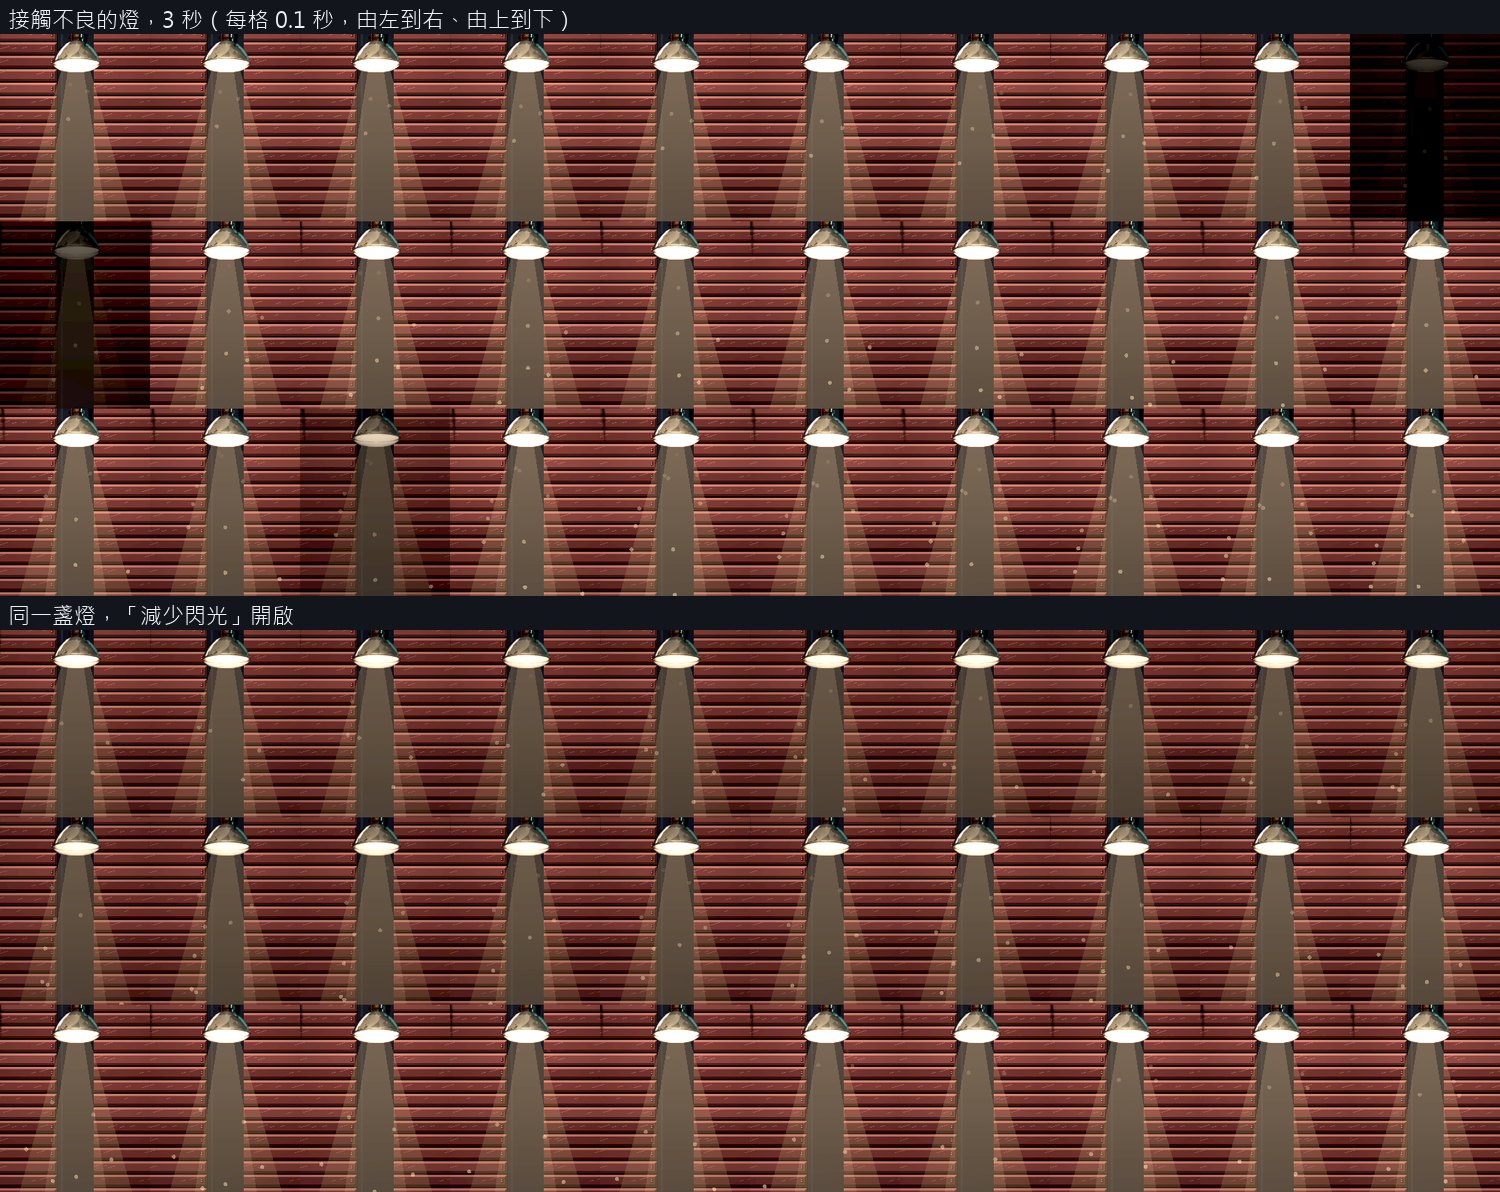
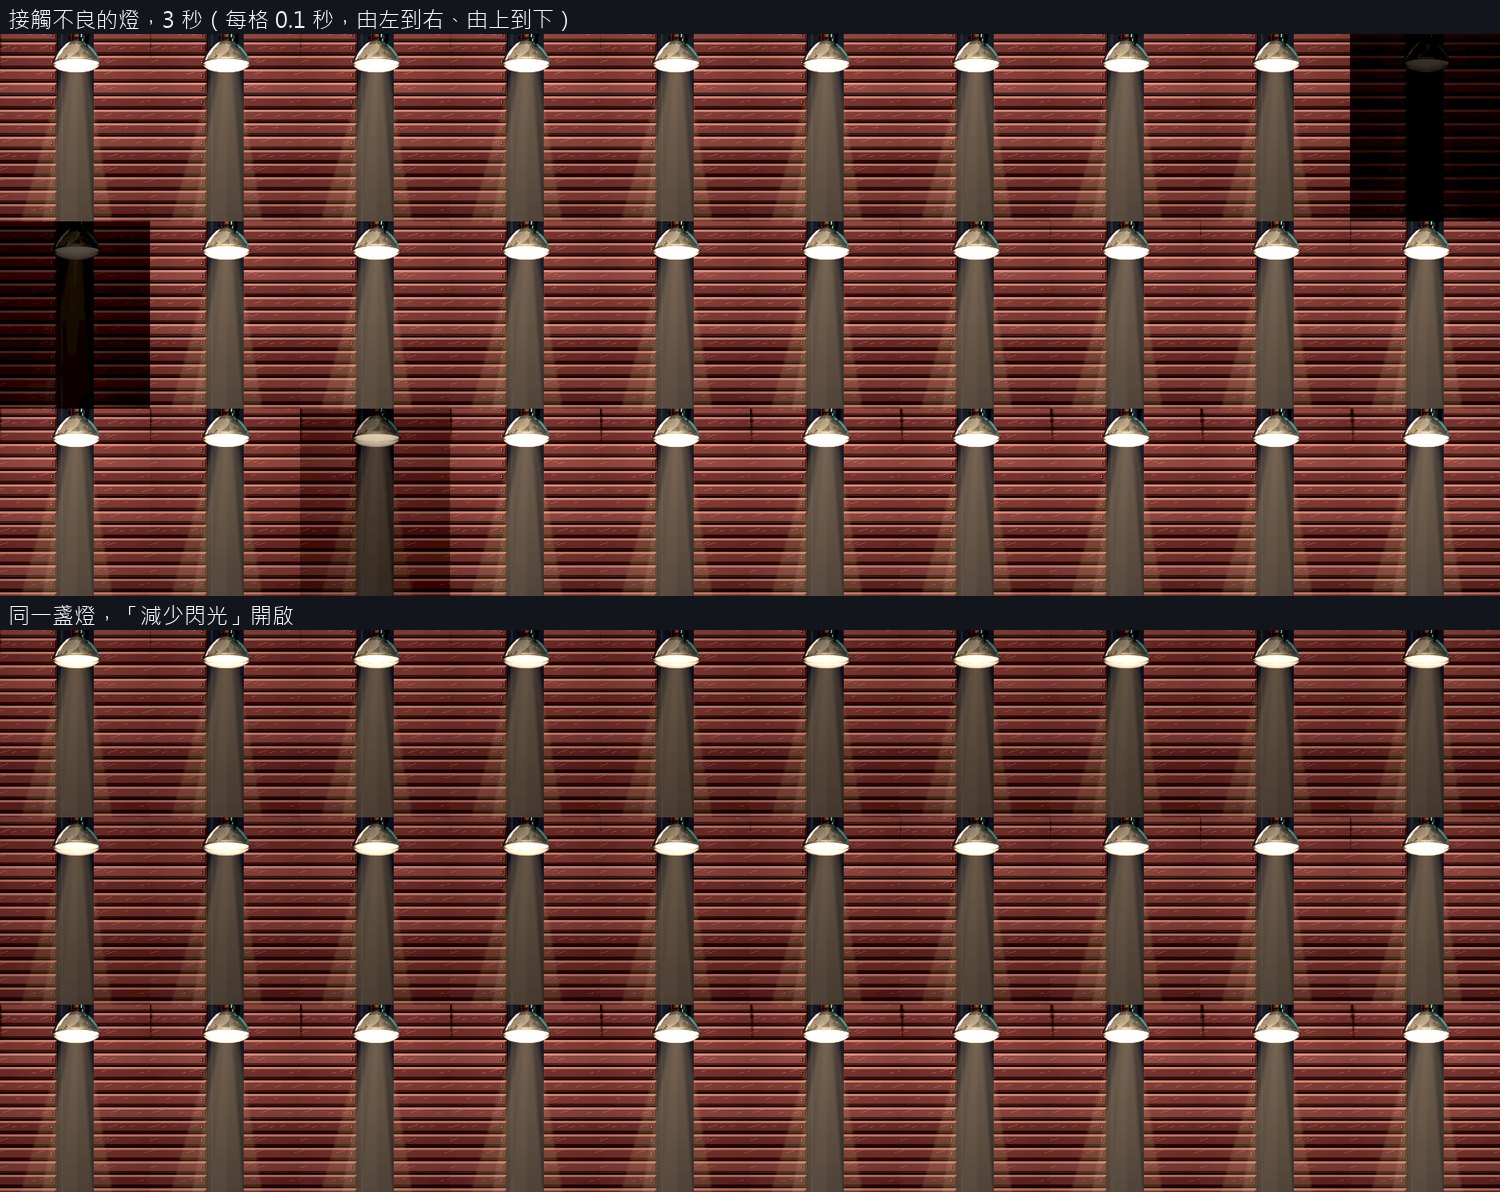
BG-36：街燈降到約四公尺，光錐改成柔邊、拿掉假粒子，快壞的燈打火時掉火花
依使用者看過新燈具後的回饋：戶外的燈桿從主角的三倍多降到兩倍左右；光錐從中心往兩側與末端淡到看不見，沒有邊線；光錐裡的塵粒與雨絲拿掉，只有快壞的燈亮起來那一下掉幾顆火花。

diff --git a/tools/level/build_ch1.py b/tools/level/build_ch1.py
@@ -590,8 +590,9 @@ def build_street():
     # The first combat tutorial's existing lamp is supported by the pole at 54.
     # Its old row-8 position sat above the pole and barely lit the player's body.
     a.lamp(54, 12)
-    for x in (10, 30, 78, 104, 126, 150, 176, 200):
-        a.lamp(x, 8)
+    # 街燈的高度約 4 公尺（主角身高的兩倍多）：第 8 列的桿子有主角的三倍高，使用者覺得太高（BG-36）。
+    for x in (11, 31, 78, 104, 126, 150, 176, 201):
+        a.lamp(x, 12)
     a.zone(0, 'market')
     a.zone(181, 'freight', 14)
     return a
@@ -616,7 +617,7 @@ def build_booth_alley():
     a.prop('anchor_phone_booth__poster_wall', 28, y=19)
     a.prop('anchor_phone_booth__flicker_lamp_post', 31)
     a.prop('anchor_phone_booth__gutter_downpipe', 20)
-    a.lamp(26, 8)
+    a.lamp(26, 11)
     a.zone(0, 'alley_calm')  # 安全的小巷：和街道同一片夜色，但光較平、沒有閃電
     a.features = {'landmark': '備份亭與復原箭頭（x=48～51）：巷子盡頭發光的電話亭', 'reward': '兩處信用點（x=18、x=44）'}
     return a
@@ -842,7 +843,7 @@ def build_stall():
     a.prop('dawn_noodle_stall__dawn_string_lights', 14, y=10)
     a.prop('dawn_noodle_stall__cat_box_bed', 36)
     a.prop('dawn_noodle_stall__shop_shutter_dawn', 6)
-    a.lamp(20, 9)
+    a.lamp(20, 12)
     a.zone(0, 'alley_calm')  # 露天的麵攤：和街道同一片夜色（一般級），亮的是攤車自己的燈
     return a
 

diff --git a/pm/Nest-Egg-BG/[BG-36]把場景燈換成十種以上的賽博龐克燈具.md b/pm/Nest-Egg-BG/[BG-36]把場景燈換成十種以上的賽博龐克燈具.md
@@ -86,3 +86,38 @@
 ![麵攤](images/BG-36-stall-before-after.jpg)
 ![當舖](images/BG-36-pawnshop-before-after.jpg)
 ![復原館](images/BG-36-lounge-before-after.jpg)
+
+# Commit-2
+
+## 內文
+
+使用者看過新燈具之後指出三件事：路燈的桿子太高；光錐裡模仿光線的粒子很假；光不應該有明確的邊界線（槍燈那樣就不錯，路燈還沒改）。量了一下，街道的燈在主角身高的三倍多，光錐是邊緣銳利的三角形，裡面有一直飄的塵粒與雨絲。
+
+現在戶外的燈降到約 4 公尺（主角身高的兩倍多）：街道 8 盞、電話亭巷與麵攤各 1 盞往下移了 3 到 4 格，立桿最長限制在 150 像素，再高的燈會被自動檢查當成沒有支撐。光錐改成從中心往兩側、從起點往末端平滑淡到看不見，沒有邊線；探照無人機與砲台的光錐和玩法有關（光錐就是視野與瞄準線），一樣沒有硬邊線，但亮的範圍幾乎佔滿整個寬度，邊界看得出來。光錐裡的塵粒與雨絲整個拿掉。只有快壞的燈從暗的突然亮起來那一下會掉幾顆橘色的火花（「減少閃光」打開時沒有）。燈降低之後，燈籠與霓虹管的光池太弱，把這兩款的亮度與範圍調高。
+
+驗收（Arc B580，原生 Forward+）：一覽圖重拍，光錐沒有邊線與粒子。街道、電話亭巷、麵攤修前修後並排，桿子從主角的三倍多降到兩倍左右。第一章每一盞燈仍然都有燈具與支撐。街燈降低後下方有牆可以量了：街道 8 盞的光池是光池外的 3.6～120 倍（中位數 4.5），電話亭巷 13 倍、麵攤 19 倍，倉庫的中位數 15 倍（最低 13）、倉庫深處 16 倍（最低 12）。可讀性在低與高品質、平常與燈最暗時都達標。每影格耗時是修前的 84～91%（高品質）與 93～101%（低品質），修前修後交替各三輪取中位數：少了每盞燈每格重畫的粒子，沒有變化的光錐也不再每格重畫。BG-35 的兩張連拍圖換成現在的樣子（柔邊光錐、火花）。
+
+### 測試結果
+
+| 項目 | 結果 |
+|---|---|
+| 受影響的測試（`run_tests_changed.sh`） | 通過 83,813 項檢查；5 項對負載敏感的計時檢查在平行執行時失敗，單獨重跑主測試與手感套件 2,176 項全過 |
+| 可讀性（第一章 14 點、舊兩關 16 點；低與高；第一章另量燈最暗時） | 全部達標（88 筆）：主角 0.62 以上、敵人 0.51 以上、地面邊緣 1.84 以上 |
+| 每影格耗時（街道、倉庫、倉庫深處） | 高 84～91%、低 93～101% |
+| 原生 log | 無 ERROR |
+
+### 截圖
+
+燈具一覽（光錐柔邊、沒有粒子；下兩列是掛在桿子上的樣子，白條是主角身高）：
+
+![燈具一覽（亮）](images/BG-36-fixtures-lit.png)
+
+街燈的高度，左邊修前、右邊修後：
+
+![街道](images/BG-36-street-height-before-after.jpg)
+![電話亭巷](images/BG-36-alley-height-before-after.jpg)
+![麵攤](images/BG-36-stall-height-before-after.jpg)
+
+快壞的燈亮起來時的火花（3 秒連拍）：
+
+![快壞了的燈](images/BG-35-dying-burst.jpg)

diff --git a/design/08-lighting/LIGHT_SOURCES.md b/design/08-lighting/LIGHT_SOURCES.md
@@ -102,6 +102,9 @@
 - 燈具自己的發光部位加上泛光就是光暈，不再另外疊一圈圓形的光圈（使用者指出的「白色方塊加光圈」）。長條形的燈（日光燈、燈板、路燈頭）從整條發光面往下照，朝一邊的投光燈光錐跟著偏。
 - 每一區從適合它的兩到四款裡挑，同一區相鄰的燈盡量不同款；同一盞燈每次進關卡都是同一款。
 - 光的顏色、範圍與形狀跟著燈具走：日光燈偏冷、範圍寬而扁；燈泡偏暖、範圍小；警示燈偏橘紅、範圍小；路燈與投光燈往下照的光錐最明顯。
+- 戶外的燈高度約 4 公尺（主角身高的兩倍多），立桿最長 150 像素；更高的桿子比例不對（使用者：「電線桿是不是太高了」），要把燈放低而不是把桿子拉長。
+- 光錐沒有邊線：從中心往兩側、從起點往末端平滑淡到看不見（使用者：「燈光不應該有明確邊界線」，以槍燈的柔邊為標準）。和玩法有關的光錐（探照無人機的視野、砲台的瞄準線）用另一組比較飽滿的橫切面，邊界看得出來但一樣沒有硬邊線。
+- 光錐裡不放模仿光線的粒子（塵粒、錐內的雨絲）：使用者覺得很假，而且場景本來就有真的雨。粒子只在有理由的時候出現：快壞的燈從暗的突然亮起來那一下掉幾顆火花。
 - 新增一款燈具只要加圖與一筆資料：圖的清單在 `assets_src/pipeline/lamp_fixtures.json`（提示詞、種子、真實高度、發光規則），款式資料在 `data/environment/lamp_fixtures.json`（安裝方式、能不能掛桿子、光錐與光池比例）。光從燈具圖的發光部位中心出發，由加工工具算好。用 `tools/lamp_gallery.tscn` 看每一款亮與熄滅、原本的裝法與掛桿子的樣子。
 
 **實作後的結果（BG-36，2026-10-11）**
